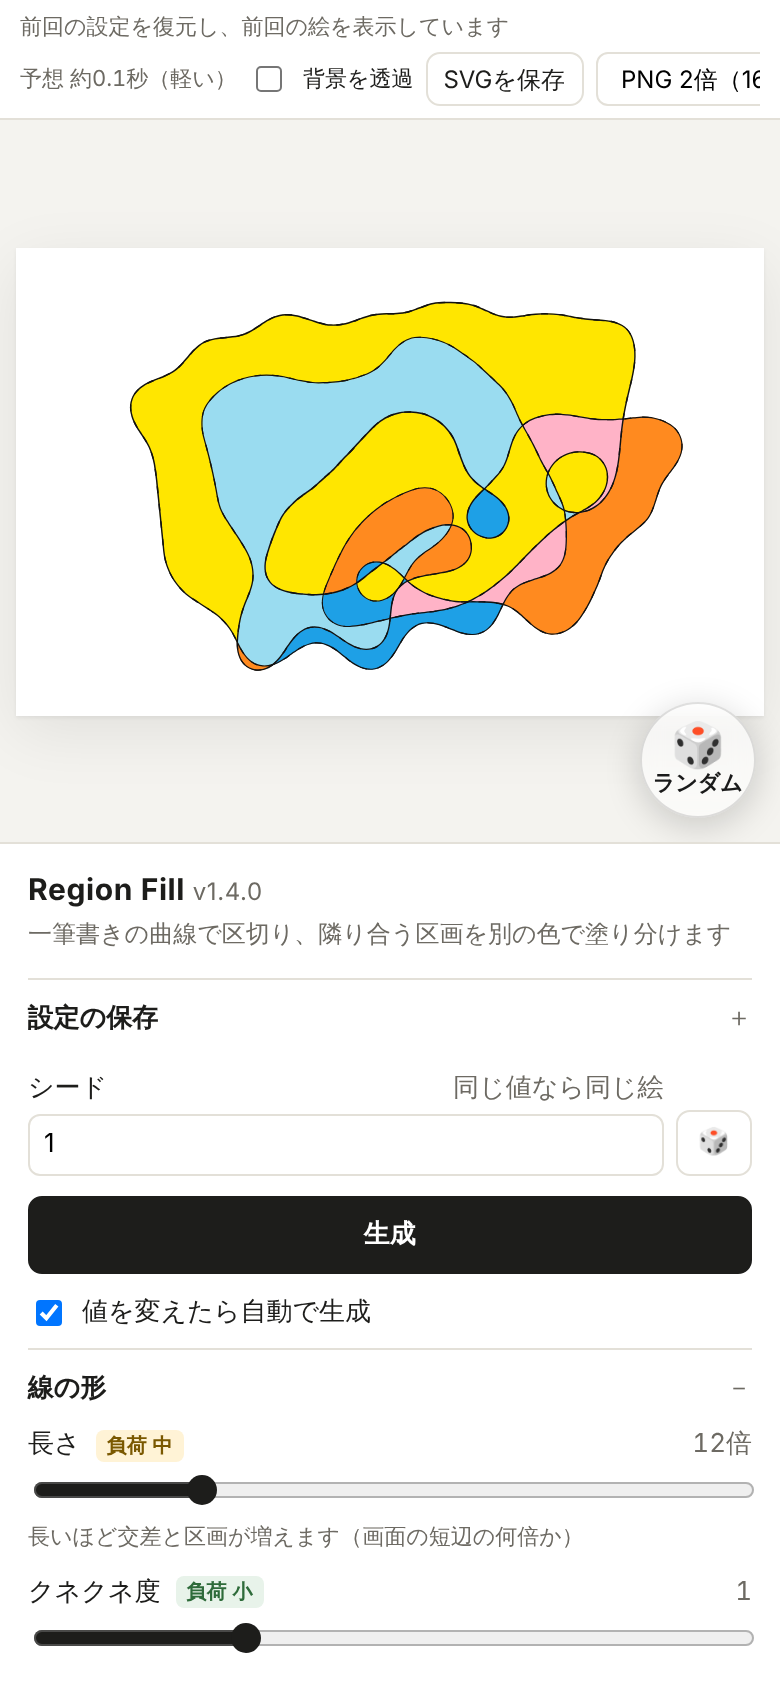
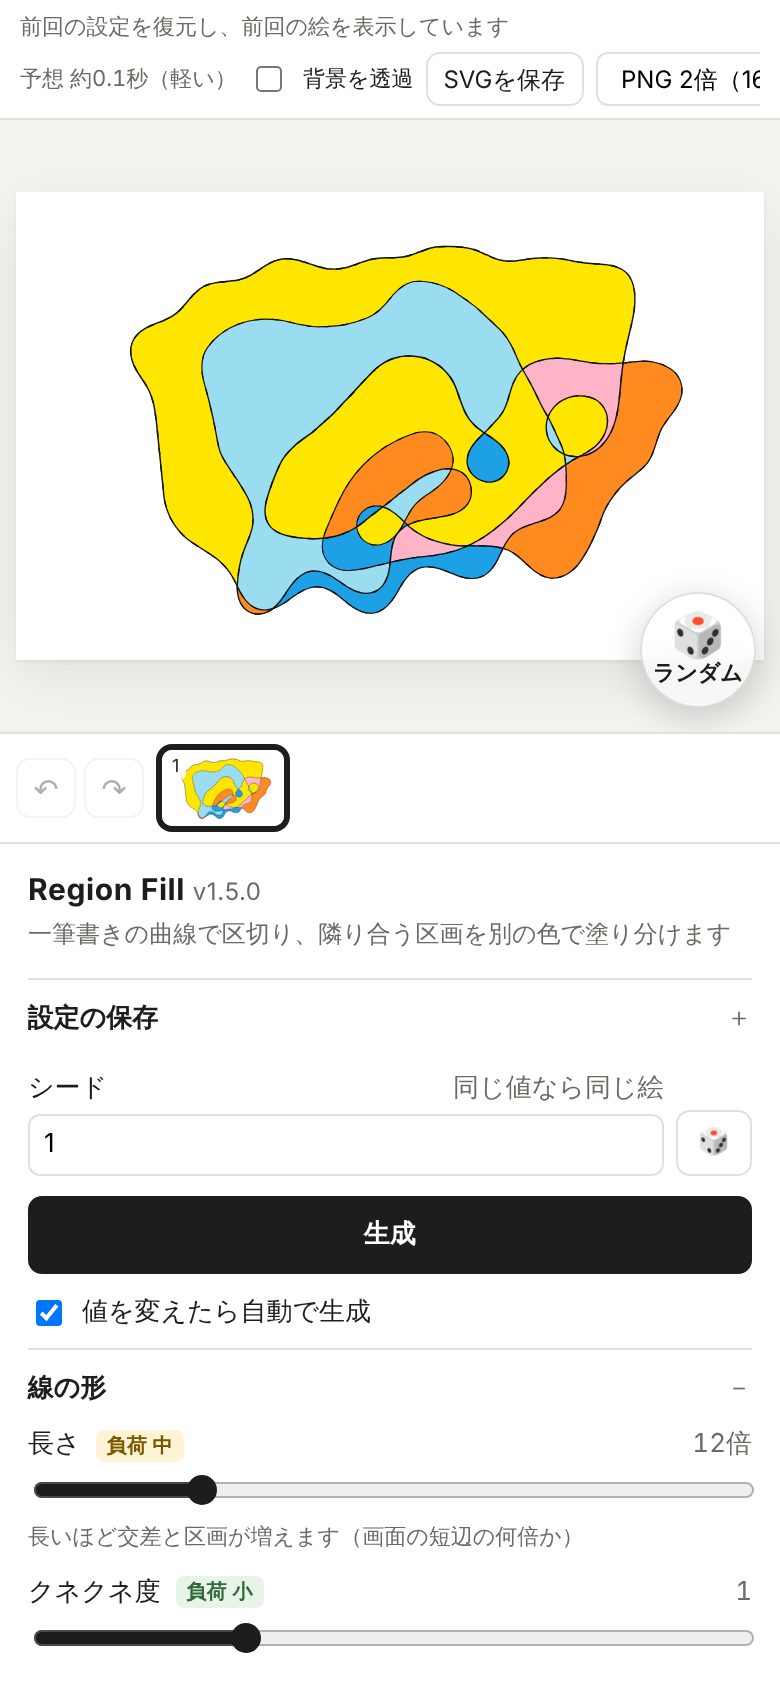
v1.5.0: 元に戻す・やり直す、サムネイル付きの履歴
Claude-Session: https://claude.ai/code/session_0184y75151MoeviqKCCLNp9Z

Changed region(s): [[0.0308, 0.1232, 1.0, 0.5237], [0.1846, 0.4313, 0.3692, 0.4929], [0.2769, 0.5237, 0.3385, 0.5545]]

diff --git a/index.html b/index.html
@@ -60,7 +60,7 @@ button:disabled{opacity:.5;cursor:default}
 .harmony{display:grid;grid-template-columns:1fr auto;gap:6px}
 .colors2{display:grid;grid-template-columns:1fr 1fr;gap:8px}
 .colors2 input[type=color]{width:100%;height:28px;border:1px solid var(--line);border-radius:6px;background:none;padding:0}
-main{display:grid;grid-template-rows:auto 1fr auto;min-width:0}
+main{display:grid;grid-template-rows:auto 1fr auto auto;min-width:0}
 .bar{display:flex;gap:8px;align-items:center;padding:12px 18px;border-bottom:1px solid var(--line);background:var(--panel);flex-wrap:wrap}
 .bar .grow{flex:1}
 .tools{display:flex;gap:8px;align-items:center;flex-wrap:wrap}
@@ -90,15 +90,32 @@ input[type=text]{width:100%;padding:5px 7px;border:1px solid var(--line);border-
 .btnrow{display:flex;gap:6px;flex-wrap:wrap}
 .btnrow button{flex:1}
 .empty{color:var(--muted)}
+/* 履歴（サムネイル）と 元に戻す・やり直す */
+.hist{display:flex;align-items:center;gap:8px;padding:8px 12px;border-top:1px solid var(--line);background:var(--panel);min-width:0}
+.hist .hbtn{display:flex;gap:4px;flex:0 0 auto}
+.hist .hbtn button{width:34px;height:34px;padding:0;font-size:17px;line-height:1}
+.hist .hbtn button:disabled{opacity:.35;cursor:default}
+.hist .hlist{display:flex;gap:6px;overflow-x:auto;flex:1;min-width:0;padding:2px;scrollbar-width:thin}
+.hist .hlist:empty::before{content:"生成した絵がここに並びます（クリックでその時の設定と絵に戻ります）";color:var(--muted);font-size:11px;align-self:center;white-space:nowrap}
+.hthumb{flex:0 0 auto;height:52px;padding:0;border:1px solid var(--line);border-radius:6px;overflow:hidden;background:#fff;position:relative;cursor:pointer}
+.hthumb img{display:block;height:100%;width:auto;max-width:120px;object-fit:contain}
+.hthumb.sel{border-color:var(--accent);box-shadow:0 0 0 2px var(--accent)}
+.hthumb .n{position:absolute;left:2px;top:2px;font-size:9px;line-height:1;padding:2px 3px;border-radius:3px;background:rgba(255,255,255,.8);color:var(--ink)}
+.hthumb.future{opacity:.55}
+.hist .hclear{flex:0 0 auto;font-size:11px;padding:4px 8px;color:var(--muted)}
 .foot{padding:8px 18px;color:var(--muted);font-size:11px;border-top:1px solid var(--line);background:var(--panel)}
 /* スマホ・狭い画面：上半分に絵を常に表示し、下半分の設定だけをスクロール */
 @media (max-width:760px){
   .dice{right:12px;bottom:12px;width:58px;height:58px;font-size:11px}
   .app{grid-template-columns:minmax(0,1fr);grid-template-rows:50vh minmax(0,1fr);height:100vh;height:100dvh}
-  main{grid-row:1;grid-template-columns:minmax(0,1fr);grid-template-rows:auto minmax(0,1fr);border-bottom:1px solid var(--line);min-height:0}
+  main{grid-row:1;grid-template-columns:minmax(0,1fr);grid-template-rows:auto minmax(0,1fr) auto;border-bottom:1px solid var(--line);min-height:0}
   .bar,.tools{min-width:0}
   aside{grid-row:2;border-right:0;min-height:0;padding:12px 14px 40px;-webkit-overflow-scrolling:touch;overscroll-behavior:contain}
   .foot{display:none}
+  .hist{padding:5px 8px;gap:6px}
+  .hist .hbtn button{width:30px;height:30px;font-size:15px}
+  .hthumb{height:40px}
+  .hist .hclear{display:none}
   .bar{padding:6px 10px;gap:6px}
   .bar{flex-direction:column;flex-wrap:nowrap;align-items:stretch;gap:4px}
   .bar .status.grow{font-size:11px;white-space:nowrap;overflow:hidden;text-overflow:ellipsis}
@@ -220,6 +237,11 @@ input[type=text]{width:100%;padding:5px 7px;border:1px solid var(--line);border-
     </div>
     <button class="dice" id="randomize" title="線（太さ・強弱・色）・背景・サイズ以外の設定をランダムにして生成（R キー）"><span class="ic">🎲</span>ランダム</button>
   </div>
+  <div class="hist" id="hist">
+    <div class="hbtn"><button id="undo" title="元に戻す（Ctrl+Z / ⌘Z）" disabled>↶</button><button id="redo" title="やり直す（Ctrl+Shift+Z / ⌘⇧Z / Ctrl+Y）" disabled>↷</button></div>
+    <div class="hlist" id="hist_list"></div>
+    <button class="hclear" id="hist_clear" title="履歴をすべて消す（今の絵はそのまま）">履歴を消す</button>
+  </div>
   <div class="foot">プレビューは保存される SVG そのものです。PNG はブラウザ内で SVG から書き出します。</div>
 </main>
 </div>
@@ -230,6 +252,7 @@ let curCat = "すべて", selPal = "ポップ", palOverride = false;
 let colors = PALETTES[0].colors.slice();
 let colorSeed = 1;
 let lastSvg = null, lastAttractors = [], reqId = 0, timer = null;
+let curGen = null;     // 表示中の絵（線・区画）を作った設定。元に戻したあとの「色だけ変える」で使う
 const $ = id => document.getElementById(id);
 const sliders = {length:v=>v+"倍", wiggle:v=>v, min_radius:v=>v+"%", smooth:v=>v, pull:v=>v, avoid:v=>v,
                  stroke:v=>v==0?"なし":v+"%", pressure:v=>v==0?"均一":v, randomness:v=>v};
@@ -469,6 +492,7 @@ const Web = (()=>{
         return j;
       }
       case "/api/recolor": { const j=await call("recolor", body); saveView(j.svg, j.attractors); return j; }
+      case "/api/view": { const d=load(); d.last=body.settings; save(d); saveView(body.svg, body.attractors); return {ok:true}; }
       case "/api/harmony": return call("harmony", body);
       case "/api/palette_from_image": return call("palette_from_image", body);
       case "/api/cancel": restart(); return {ok:true};
@@ -548,10 +572,12 @@ async function generate(quiet){
     if(id!==reqId) return;                         // 新しい生成が始まっていたら捨てる
     if(j.cancelled){ if(!quiet) setStatus("中断しました（プレビューは直前のままです）"); return; }
     if(quiet){ lastAttractors=j.attractors; drawOverlay(); return; }
-    lastAttractors=j.attractors; showSvg(j.svg);
+    lastAttractors=j.attractors; showSvg(j.svg); curGen=p;
     // 生成中に配色や線・背景の色が変わっていたら、今の色で塗り直す（古い色の結果で上書きしない）
     const now=params();
-    if(JSON.stringify(now.colors)!==JSON.stringify(p.colors) || now.line_color!==p.line_color || now.bg!==p.bg) recolor(false);
+    const stale=JSON.stringify(now.colors)!==JSON.stringify(p.colors) || now.line_color!==p.line_color || now.bg!==p.bg;
+    Hist.push(stale ? {...snapshot(), settings:{...histSettings(), colors:p.colors, line_color:p.line_color, bg:p.bg}} : snapshot());
+    if(stale) recolor(false, true);
     const s=j.stats;
     learnSpeed(p, s.seconds); showEstimate();
     let t=`区画 ${s.faces} ・ 交点 ${s.crossings} ・ 線 ${s.stroke_px}px ・ 最小半径 ${s.min_radius_px}px`;
@@ -565,7 +591,7 @@ async function generate(quiet){
 }
 
 let recolorId=0;
-async function recolor(newSeed){
+async function recolor(newSeed, replaceHist){
   if(!lastSvg) return;
   const rid=++recolorId;
   if(colors.length<4){ setStatus("色は4色以上にしてください",true); return; }
@@ -573,9 +599,11 @@ async function recolor(newSeed){
   const p=params();
   try{
     const j=await post("/api/recolor",{colors:p.colors, randomness:p.randomness, color_seed:colorSeed,
-                                        line_color:p.line_color, bg:p.bg});
-    if(rid!==recolorId) return;                    // 後から押した操作の結果を優先する
+                                        line_color:p.line_color, bg:p.bg, gen:curGen});
+    if(rid!==recolorId || j.cancelled) return;     // 後から押した操作の結果を優先する
     showSvg(j.svg);
+    Hist.push(snapshot(), !!replaceHist);
+    persistView();
   }catch(e){ setStatus(e.message,true); }
 }
 
@@ -677,6 +705,111 @@ function setSize(w,h){
   $("width").value=w; $("height").value=h;
   syncSizePreset(); fitFrame(); scheduleAuto();
 }
+
+// ---- 履歴・元に戻す・やり直す
+// 生成・色だけ変える のたびに、その時の設定と絵（SVG）を1件として記録する。
+// 記録はこのブラウザの中（IndexedDB）に最大 HIST_MAX 件。サムネイルは SVG をそのまま縮小表示
+function histSettings(){
+  const {auto, show_att, png_scale, ver, ...s}=params(); return s;
+}
+function snapshot(){
+  return {settings:histSettings(), gen:curGen, svg:lastSvg, attractors:lastAttractors, colorSeed, time:Date.now()};
+}
+function persistView(){
+  // 次回の起動時に、この絵と設定から始められるように保存（gen は線を作った設定）
+  post("/api/view",{settings:{...params(), gen:curGen}, svg:lastSvg, attractors:lastAttractors}).catch(()=>{});
+}
+const HIST_MAX=40;
+const Hist=(()=>{
+  let items=[], pos=-1, db=null, seq=0;
+  function openDb(){
+    return new Promise(res=>{
+      try{
+        const r=indexedDB.open("region_fill",1);
+        r.onupgradeneeded=()=>r.result.createObjectStore("history",{keyPath:"id"});
+        r.onsuccess=()=>{ db=r.result; res(); };
+        r.onerror=r.onblocked=()=>res();
+      }catch(e){ res(); }
+    });
+  }
+  function store(mode){ try{ return db ? db.transaction("history",mode).objectStore("history") : null; }catch(e){ return null; } }
+  const strip=({_url,...e})=>e;
+  function put(e){ const s=store("readwrite"); if(s) try{ s.put(strip(e)); }catch(err){} }
+  function del(e){ const s=store("readwrite"); if(s) try{ s.delete(e.id); }catch(err){} if(e._url) URL.revokeObjectURL(e._url); }
+  async function load(){
+    await openDb();
+    const s=store("readonly"); if(!s) return;
+    await new Promise(res=>{
+      try{
+        const r=s.getAll();
+        r.onsuccess=()=>{ items=(r.result||[]).filter(e=>e&&e.svg).sort((a,b)=>a.id-b.id); res(); };
+        r.onerror=()=>res();
+      }catch(e){ res(); }
+    });
+    while(items.length>HIST_MAX) del(items.shift());
+    pos=items.length-1; render();
+  }
+  function push(e, replace){
+    if(!e.svg) return;
+    if(replace && pos>=0){ const old=items[pos]; if(old._url) URL.revokeObjectURL(old._url); items[pos]={...e, id:old.id}; put(items[pos]); render(); return; }
+    if(pos>=0 && items[pos].svg===e.svg) return;            // 同じ絵は重ねて記録しない
+    for(const x of items.splice(pos+1)) del(x);            // 元に戻したあとの新しい操作で、先の履歴は消える
+    e.id=Date.now()*100+(seq++%100); items.push(e);
+    while(items.length>HIST_MAX) del(items.shift());
+    pos=items.length-1; put(e); render();
+  }
+  function go(i){
+    if(i<0 || i>=items.length || i===pos) return;
+    pos=i; restore(items[i]); render();
+  }
+  function restore(e){
+    // 走っている生成は止めて結果を捨てる（パソコン版。ブラウザ版は止めると準備し直しになるので結果だけ捨てる）
+    const running=$("busy").classList.contains("on");
+    clearTimeout(timer); ++reqId; setBusy(false);
+    if(running && SERVER_MODE) post("/api/cancel",{}).catch(()=>{});
+    applySettings({...e.settings, auto:undefined}, false);
+    colorSeed=e.colorSeed||1; curGen=e.gen; lastAttractors=e.attractors||[];
+    showSvg(e.svg); persistView();
+    const d=new Date(e.time), z=n=>String(n).padStart(2,"0");
+    setStatus(`履歴 ${pos+1}/${items.length}（${z(d.getHours())}:${z(d.getMinutes())}:${z(d.getSeconds())}）に戻しました。シード ${e.settings.seed}`);
+  }
+  function clear(){
+    for(const x of items.splice(0)) del(x);
+    pos=-1; if(lastSvg) push(snapshot()); else render();
+    setStatus("履歴を消しました（今の絵だけ残しています）");
+  }
+  function render(){
+    const box=$("hist_list"); box.innerHTML="";
+    items.forEach((e,i)=>{
+      if(!e._url) e._url=URL.createObjectURL(new Blob([e.svg],{type:"image/svg+xml"}));
+      const b=document.createElement("button"); b.className="hthumb"+(i===pos?" sel":"")+(i>pos?" future":"");
+      const d=new Date(e.time), z=n=>String(n).padStart(2,"0");
+      b.title=`${i+1}. ${z(d.getHours())}:${z(d.getMinutes())}:${z(d.getSeconds())} ・ シード ${e.settings.seed}`+(e.settings.palette?` ・ 配色「${e.settings.palette}」`:"");
+      const img=document.createElement("img"); img.src=e._url; img.alt=""; img.loading="lazy"; img.decoding="async";
+      const n=document.createElement("span"); n.className="n"; n.textContent=i+1;
+      b.append(img,n); b.onclick=()=>go(i); box.appendChild(b);
+    });
+    const sel=box.children[pos];
+    if(sel){ const l=sel.offsetLeft-box.offsetLeft, r=l+sel.offsetWidth;
+      if(l<box.scrollLeft) box.scrollLeft=l-4; else if(r>box.scrollLeft+box.clientWidth) box.scrollLeft=r-box.clientWidth+4; }
+    $("undo").disabled=pos<=0; $("redo").disabled=pos>=items.length-1;
+  }
+  function find(svg){ for(let i=items.length-1;i>=0;i--) if(items[i].svg===svg) return i; return -1; }
+  function select(i){ pos=i; render(); }            // 絵は変えずに、選択位置だけ合わせる（起動時）
+  return {load, push, clear, find, select, undo:()=>go(pos-1), redo:()=>go(pos+1), get current(){ return items[pos]; },
+          get length(){ return items.length; }, get pos(){ return pos; }};
+})();
+$("undo").onclick=()=>Hist.undo();
+$("redo").onclick=()=>Hist.redo();
+$("hist_clear").onclick=()=>{ if(confirm("履歴をすべて消しますか？（今の絵はそのまま残ります）")) Hist.clear(); };
+document.addEventListener("keydown",e=>{
+  if(!(e.ctrlKey||e.metaKey) || e.altKey) return;
+  const a=document.activeElement;
+  if(a && (a.tagName==="TEXTAREA" || (a.tagName==="INPUT" && /^(text|number|search)$/.test(a.type)))) return;   // 入力欄の中は文字の取り消しを優先
+  const k=e.key.toLowerCase();
+  if(k==="z" && !e.shiftKey){ e.preventDefault(); Hist.undo(); }
+  else if((k==="z" && e.shiftKey) || k==="y"){ e.preventDefault(); Hist.redo(); }
+});
 
 // ---- ランダム：線（太さ・強弱・色）・背景・サイズ以外を、重くなりすぎない範囲でランダムに
 function randomizeAll(){
@@ -872,6 +1005,7 @@ $("reset_cfg").onclick=()=>{ pendingNote="既定の設定に戻しました"; ap
   await loadPalettes();
   if(!SERVER_MODE){ setBusy(false); $("cancel").style.display=""; }
   DEFAULTS=params();
+  await Hist.load();
   try{
     const data=await getJSON("/api/settings");
     fillPresets(data.presets||{});
@@ -884,6 +1018,10 @@ $("reset_cfg").onclick=()=>{ pendingNote="既定の設定に戻しました"; ap
     if(data.last && data.view && data.view.svg && !migrated){
       // 前回の絵をすぐに表示し、「色だけ変える」等に必要な計算だけ裏で行う
       lastAttractors=data.view.attractors||[]; showSvg(data.view.svg);
+      curGen=data.last.gen || data.last;
+      const hi=Hist.find(data.view.svg);              // 前回最後に表示していた絵が履歴にあれば、そこを選んだ状態から始める
+      if(hi<0) Hist.push(snapshot());
+      else { Hist.select(hi); colorSeed=Hist.current.colorSeed||1; }
       setStatus(pendingNote.replace("復元しました","復元し、前回の絵を表示しています")); pendingNote="";
       generate(true);
       return;

diff --git a/region_fill_api.py b/region_fill_api.py
@@ -56,8 +56,37 @@ def generate(p, should_stop=None):
     }
 
 
-def recolor(p):
-    """直近の線と区画はそのままで、色だけ塗り直す。"""
+# 線・区画（と線の強弱）を決める設定。色数も乱数の進み方に影響するので含める
+GEN_KEYS = ("width", "height", "curves", "seed", "randomness", "wiggle", "stroke", "min_radius", "length",
+            "max_bends", "att_min", "att_max", "pull", "avoid", "smooth", "pressure")
+
+
+def _gen_key(p):
+    def norm(v):
+        try:
+            return float(v)
+        except (TypeError, ValueError):
+            return str(v)
+    return tuple(norm(p.get(k)) for k in GEN_KEYS) + (len([c for c in p.get("colors", []) if c]),)
+
+
+def needs_regen(gen):
+    """gen（表示中の絵を作った設定）と、手元にある直近の結果が違うか。"""
+    if not gen:
+        return False
+    last = _state["last"]
+    return last is None or _gen_key(last["params"]) != _gen_key(gen)
+
+
+def recolor(p, should_stop=None):
+    """直近の線と区画はそのままで、色だけ塗り直す。
+
+    p["gen"]（表示中の絵を作った設定）が直近の結果と違うとき（元に戻す・履歴から選んだあと等）は、
+    同じ設定で線を作り直してから塗る（同じ設定なら同じ線になる）。
+    """
+    gen = p.get("gen")
+    if needs_regen(gen):
+        generate(gen, should_stop=should_stop)
     last = _state["last"]
     if last is None:
         raise ValueError("まだ準備中です（前回の絵を再計算しています）。少し待ってからもう一度お試しください。")

diff --git a/region_fill_gui.py b/region_fill_gui.py
@@ -1,6 +1,6 @@
 #!/usr/bin/env python3
 """
-region_fill.py のGUI（ブラウザで操作）。 v1.4.1
+region_fill.py のGUI（ブラウザで操作）。 v1.5.0
 
   python region_fill_gui.py            # ブラウザが自動で開きます
   python region_fill_gui.py --port 9000 --no-browser
@@ -63,6 +63,8 @@ def api_generate(p):
 
 
 def api_recolor(p):
+    if api.needs_regen(p.get("gen")):            # 元に戻した絵など：線を作り直す必要があるときは生成と同じ手順で
+        api_generate({**p["gen"], "quiet": True})
     out = api.recolor(p)
     if STORE is not None:
         STORE.save_view(out["svg"], out["attractors"])
@@ -185,6 +187,10 @@ class Handler(BaseHTTPRequestHandler):
                 out = api.harmony(p)
             elif self.path == "/api/palette_from_image":
                 out = api.palette_from_image(p)
+            elif self.path == "/api/view":          # 元に戻す・履歴から選んだ絵を、次回の起動用に保存
+                STORE.save_last(p.get("settings") or {})
+                STORE.save_view(p.get("svg", ""), p.get("attractors", []))
+                out = {"ok": True}
             elif self.path == "/api/cancel":
                 out = api_cancel(p)
             elif self.path == "/api/presets/save":

diff --git a/region_fill.py b/region_fill.py
@@ -28,7 +28,7 @@ import time
 
 import numpy as np
 
-__version__ = "1.4.1"
+__version__ = "1.5.0"
 
 DEFAULT_COLORS = ["#FFE600", "#FF8A1F", "#FFB3C7", "#1EA0E6", "#9ADCF0"]
 

diff --git a/CHANGELOG.md b/CHANGELOG.md
@@ -1,5 +1,16 @@
 # 更新履歴
 
+## v1.5.0（2026-10-22）
+
+### 追加
+- **元に戻す / やり直す**：絵の下の ↶ ↷ ボタン、`Ctrl+Z` / `Ctrl+Shift+Z`（Mac は `⌘Z` / `⌘⇧Z`、`Ctrl+Y` も可）。
+  設定と絵の両方がその時の状態に戻る。戻したあとに「色だけ変える」を使っても、線はその絵のまま
+- **サムネイル付きの履歴**：生成・色の変更のたびに絵の下へ並ぶ（最新40件）。クリックでその時に戻る。
+  ブラウザの中（IndexedDB）に保存されるので、再読み込みや次回の起動でも残る。「履歴を消す」で全削除
+
+### 変更
+- 「色だけ変える」で配色を変えたときも、次回の起動時にその配色の設定から始まるように
+
 ## v1.4.1（2026-10-21）
 
 ### 修正
